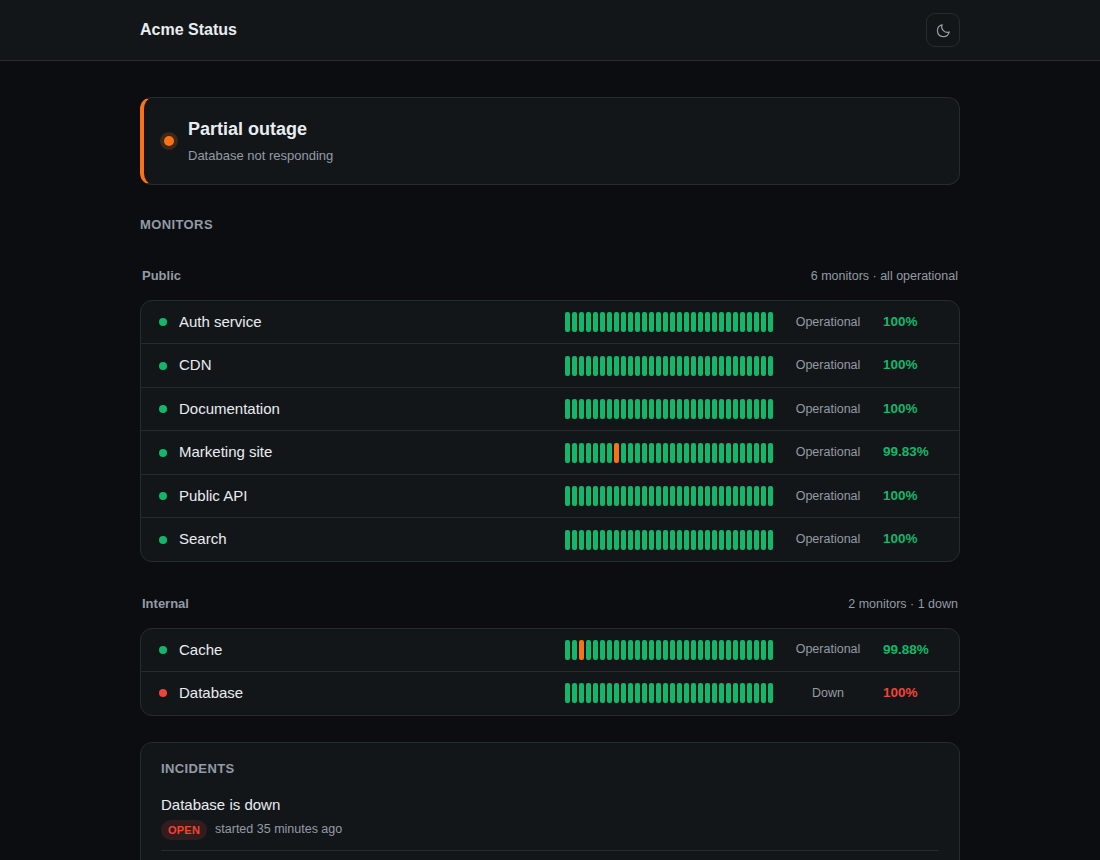
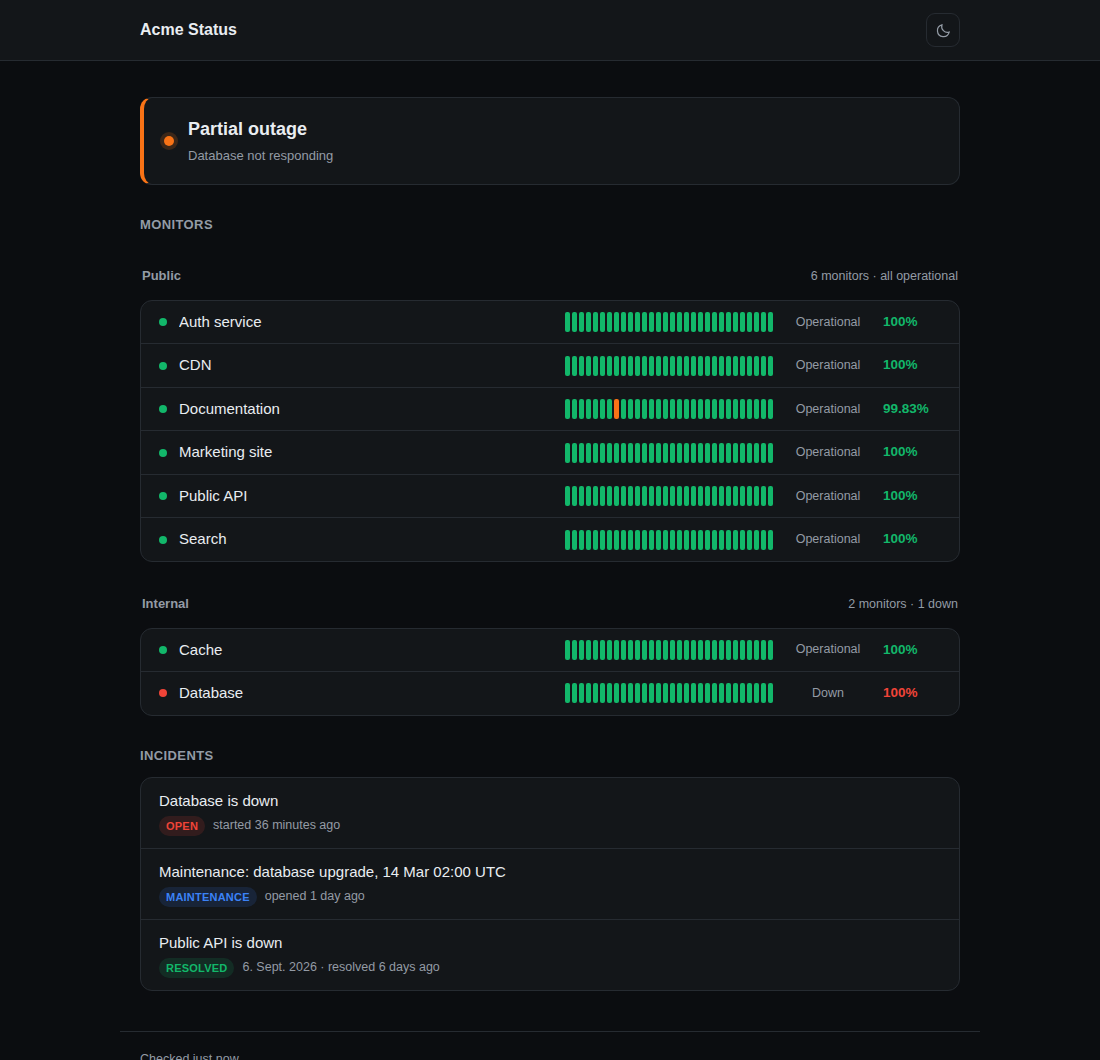
style: incidents heading sits above its list
The heading was inside the box while every other heading on the page sits
above one. The list is the box now and the heading stands over it, like the
monitors above it.

The panel class it used is gone with it, so the heading class is renamed for
what it is. Only the list on the page takes the box: the one in a monitor's
details stays flat rather than becoming a card inside a dialog.

diff --git a/site/style.css b/site/style.css
@@ -188,16 +188,7 @@ main.shell {
   --status: var(--down);
 }
 
-.panel {
-  margin-top: 26px;
-  border: 1px solid var(--border);
-  border-radius: var(--radius);
-  background: var(--surface);
-  box-shadow: var(--shadow);
-  padding: 16px 20px;
-}
-
-.panel-title {
+.section-title {
   margin: 0;
   font-size: 13px;
   font-weight: 600;
@@ -208,7 +199,7 @@ main.shell {
 
 .incident-list {
   list-style: none;
-  margin: 12px 0 0;
+  margin: 0;
   padding: 0;
 }
 
@@ -219,7 +210,20 @@ main.shell {
 
 .incident-list li:first-child {
   border-top: 0;
-  padding-top: 4px;
+}
+
+/* Only the list on the page is a box of its own, with the heading above it as
+   the monitors have. The one inside a dialog stays flat. */
+#incident-list {
+  border: 1px solid var(--border);
+  border-radius: var(--radius);
+  background: var(--surface);
+  box-shadow: var(--shadow);
+  overflow: hidden;
+}
+
+#incident-list li {
+  padding: 12px 18px;
 }
 
 .incident-title {
@@ -634,7 +638,7 @@ main.shell {
   margin-top: 22px;
 }
 
-.detail-section .panel-title {
+.detail-section .section-title {
   margin-bottom: 10px;
 }
 

diff --git a/site/app.js b/site/app.js
@@ -396,11 +396,11 @@ async function openDetail(slug) {
   detailBody.append(figures);
 
   const history = el('div', 'detail-section');
-  history.append(el('h3', 'panel-title', `${data.days} day history`));
+  history.append(el('h3', 'section-title', `${data.days} day history`));
   detailBody.append(history);
 
   const chartSection = el('div', 'detail-section');
-  chartSection.append(el('h3', 'panel-title', 'Response time'));
+  chartSection.append(el('h3', 'section-title', 'Response time'));
   const chart = el('div', 'chart');
   chart.append(el('p', 'detail-empty', 'Loading…'));
   chartSection.append(chart);
@@ -410,7 +410,7 @@ async function openDetail(slug) {
     (incident) => incident.monitors?.includes(slug) || incident.monitor === slug,
   );
   const incidentSection = el('div', 'detail-section');
-  incidentSection.append(el('h3', 'panel-title', 'Incidents'));
+  incidentSection.append(el('h3', 'section-title', 'Incidents'));
   if (related.length) {
     const list = el('ul', 'incident-list');
     for (const incident of related) list.append(renderIncidentItem(incident));

diff --git a/site/index.html b/site/index.html
@@ -32,7 +32,7 @@
       </section>
 
       <div class="list-head">
-        <h2 class="panel-title">Monitors</h2>
+        <h2 class="section-title">Monitors</h2>
       </div>
 
       <div id="monitors" class="monitors"></div>
@@ -42,8 +42,10 @@
         <code>MONITOR_&lt;NAME&gt;</code> to get started.
       </p>
 
-      <section id="incidents" class="panel" hidden>
-        <h2 class="panel-title">Incidents</h2>
+      <section id="incidents" hidden>
+        <div class="list-head">
+          <h2 class="section-title">Incidents</h2>
+        </div>
         <ul id="incident-list" class="incident-list"></ul>
       </section>
     </main>
